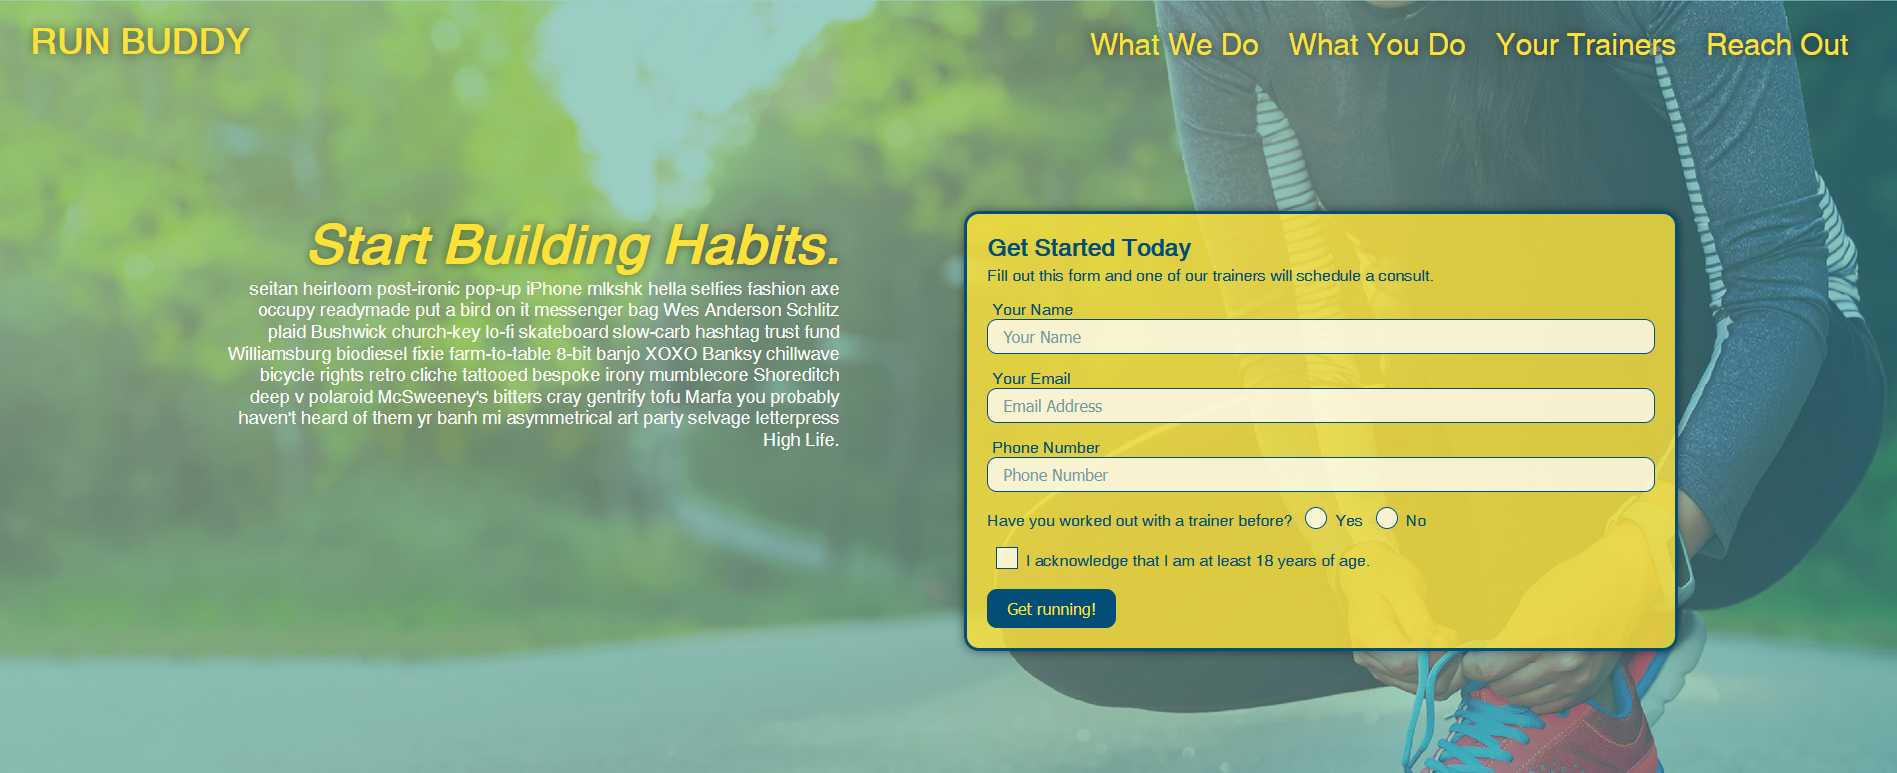
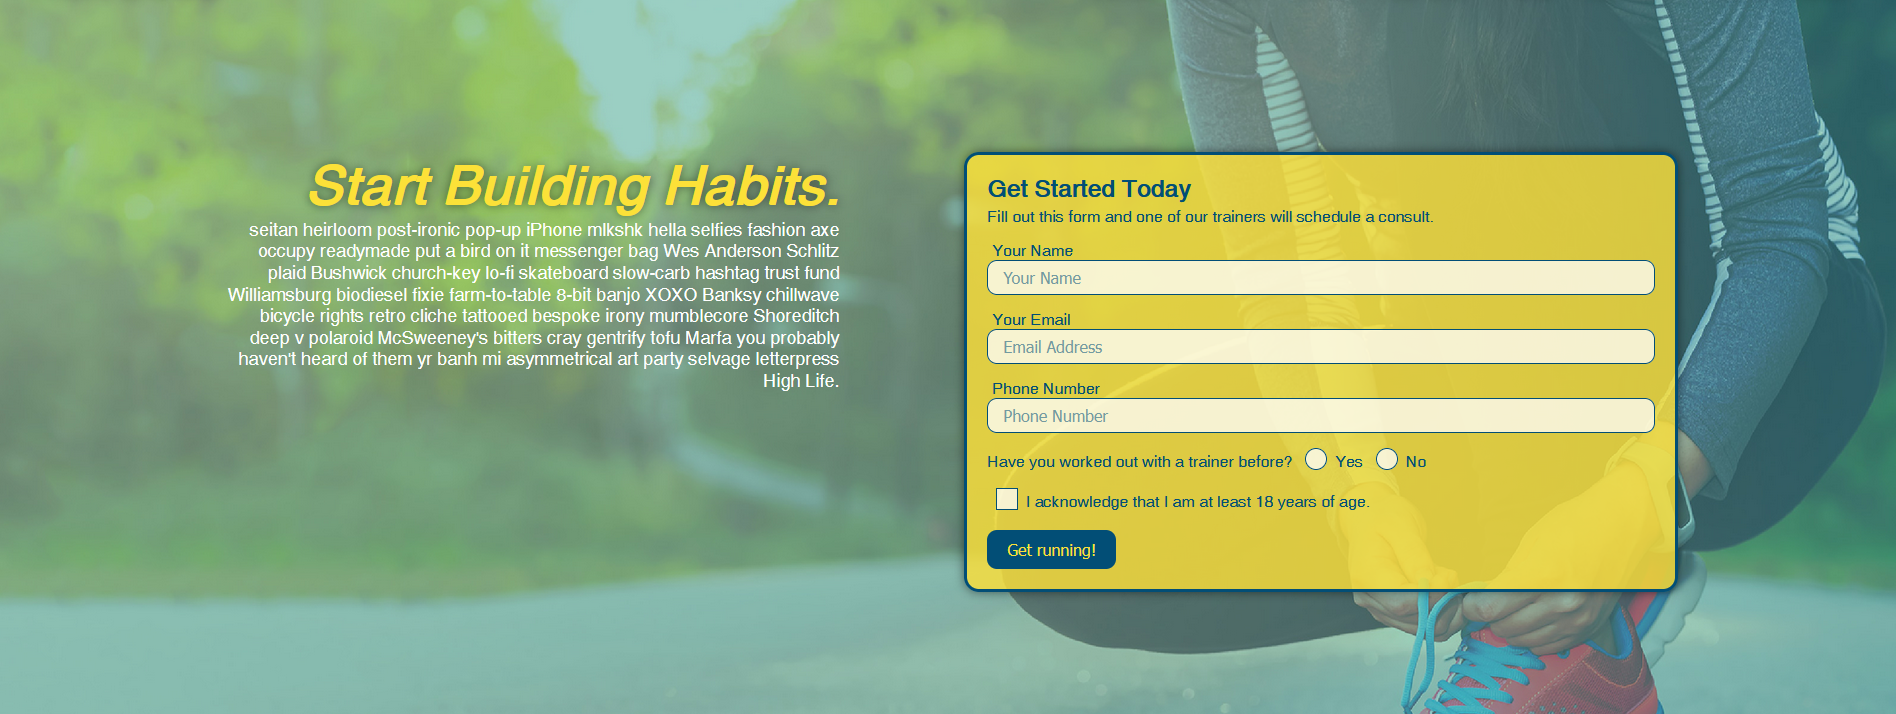
added media queries at 980px breakpoint

diff --git a/assets/css/style.css b/assets/css/style.css
@@ -111,7 +111,7 @@ footer a {
 .about {
     display: flex;
     justify-content: space-between;
-    margin: 50px 25px 50px 25px;
+    margin: 50px 75px 50px 25px;
     align-items: center;
     height: 150px;
 }
@@ -119,21 +119,20 @@ footer a {
 .about p {
     text-align: left;
     width: 80%;
-    margin-right: 55px;
 }
 
 /*projects*/
 .work {
-    margin: 5px 25px 5px 25px;
+    margin: 25px 80px 25px 25px;
     display: flex;
     align-items: center;
-    height: 800px;
+    height: 600px;
     justify-content: space-between;
 }
 
 .projects {
     width: 80%;
-    margin: 20px 55px 20px 0;
+    height: 100%;
     display: flex;
     flex-wrap: wrap;
     justify-content: space-between;
@@ -156,7 +155,6 @@ footer a {
 
 .projects div:first-child {
     width: 100%;
-    height: 300px;
 }
 
 .projects div:first-child h4 {
@@ -184,8 +182,7 @@ footer a {
 /*contact*/
 .contact {
     display: flex;
-    flex-wrap: wrap;
-    margin: 5px 25px 5px 25px;
+    margin: 10px 50px 10px 50px;
     align-items: center;
     height: 150px;
     justify-content: space-between;
@@ -198,7 +195,6 @@ footer a {
 
 .contact ul li {
     display: inline-block;
-    margin: 5px 25px 5px 25px;
 }
 
 .contact ul li a{
@@ -300,7 +296,7 @@ footer a:focus {
     }
 
     .about {
-        margin: 50px 25px 50px 25px;
+        margin: 50px 40px 50px 25px;
         align-items: flex-start;
         height: auto;
     }
@@ -311,6 +307,11 @@ footer a:focus {
         line-height: 1.3;
     }
 
+    .work {
+        height: 550px;
+        margin: 25px 40px 25px 25px;
+    }   
+
     .projects h4 {
         font-size: 15px;
         padding: 15px 15px;
@@ -318,9 +319,31 @@ footer a:focus {
 
     .projects div:first-child h4 {
         font-size: 25px;
+    } 
+
+    .contact {
+        height: 120px;
+        margin: 10px 40px 10px 25px;
+    }
+    
+    .contact-list {
+        width: 80%;
+        text-align: right;
+    }
+    
+    .contact ul li {
+        margin: 5px 25px 5px 25px;
+        font-size: 15px;
+    }
+    
+    footer h2 {
+        font-size: 18px;
     }
 
-/* MEDIA QUERY FOR TABLETS AND SMALLER */
+    footer a {
+        font-size: 15px;
+    }
+/* MEDIA QUERY FOR TABLETS AND SMALLER NEED TO EDIT*/
 @media screen and (max-width: 768px) {
     section {
         padding: 30px 15px;
@@ -343,7 +366,7 @@ footer a:focus {
         flex: 100%
     }
 }
-/* MEDIA QUERY FOR MOBILE PHONES AND SMALLER */
+/* MEDIA QUERY FOR MOBILE PHONES AND SMALLER NEED TO EDIT */
 @media screen and (max-width: 575px) {
     .hero-form button {
         width: 100%

diff --git a/index.html b/index.html
@@ -73,11 +73,6 @@
                         <h4>Coming Soon</h4>
                     </a>
                 </div>
-                <div>
-                    <a href="#" target="_blank">
-                        <h4>Coming Soon</h4>
-                    </a>
-                </div>
             </div>
         </section>
     <!--contact-->
